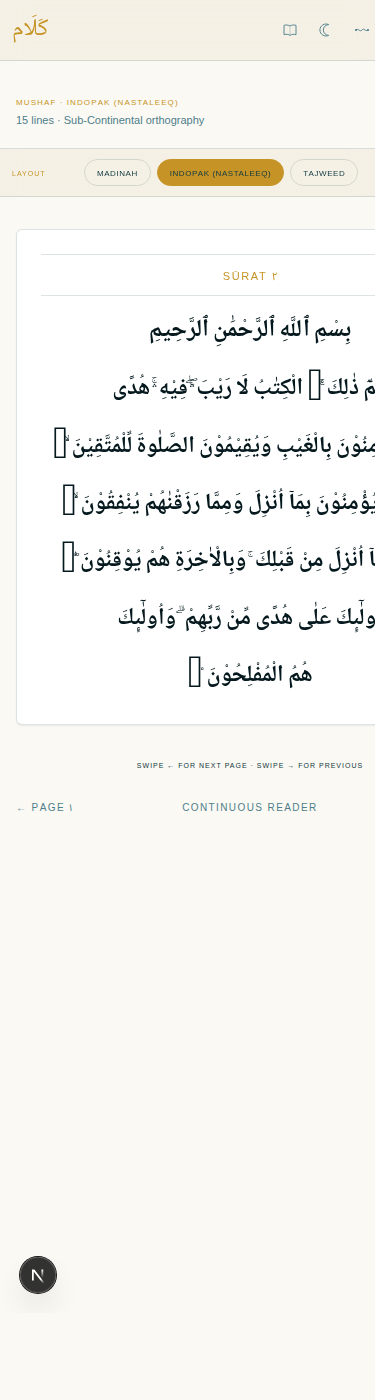
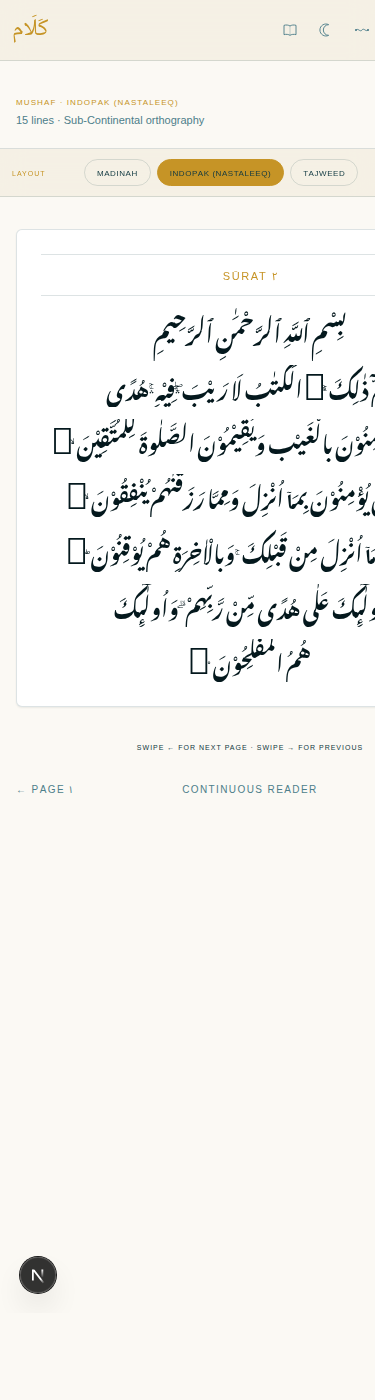
fix(data-loader,web): wordbleed root cause — sort mushaf words by global word_id
Root cause: mushaf-layouts wordsOnLine query was ORDER BY word_index,
which is per-VERSE word index. Lines that span verse boundaries
(common in mushaf — e.g. p2 line 4 has w45-46 from 2:2 + w47-51 from
2:3) had 2:3's index-0 word sort BEFORE 2:2's index-6 word, so the
API returned [47, 48, 49, 50, 51, 45, 46] instead of mushaf order
[45, 46, 47, 48, 49, 50, 51]. The frontend then rendered the words
in that wrong order — visible wordbleed where 2:3's start appeared
on the right (read first in RTL) and 2:2's tail appeared on the left.

Fix: ORDER BY word_id ASC. word_id is 1..N over the entire Quran in
mushaf order, so it's the correct sort key for line content.

Frontend cleanup:
- MushafLines now renders each line as ONE concatenated text run via
  renderLineText(), no per-word inline-block wrapping. The browser's
  standard RTL bidi handles word + digit ordering natively. Verse-end
  rosettes and tajweed segments are still inline elements with
  specific styling but inside the same paragraph.
- Removed unicode-bidi:plaintext (was creating per-span isolates that
  amplified the digit's LTR run effect).
- Verse-end span uses UthmanicHafs explicitly for the rosette glyph
  even when the layout font (Nastaliq) lacks one.
- Switched IndoPak (kfgqpc_v1) layout font from Noto Naskh Arabic to
  Noto Nastaliq Urdu — authentic Sub-Continental Nastaleeq style.

diff --git a/apps/web/src/components/MushafLines.tsx b/apps/web/src/components/MushafLines.tsx
@@ -59,17 +59,7 @@ interface Props {
   readonly minFontPx?: number;
 }
 
-// Verse-end marker detection.
-// • Uthmani: bare Arabic-Indic digit ('٢')
-// • IndoPak Nastaleeq: combining-mark cluster ('۟', '۟ۙ', etc) using
-//   chars from U+06D6–U+06ED (small high marks) without any base
-//   Arabic letter.
-const ARABIC_DIGITS_RE = /^[٠-٩]+$/;
-const INDOPAK_END_RE = /^[ۖ-ۭ]+$/;
-function isAyahEndMarker(text: string): boolean {
-  const t = text.trim();
-  return ARABIC_DIGITS_RE.test(t) || INDOPAK_END_RE.test(t);
-}
+// (verse-end detection moved into renderLineText)
 
 const useIsoLayoutEffect = typeof window === 'undefined' ? useEffect : useLayoutEffect;
 
@@ -94,12 +84,10 @@ const useIsoLayoutEffect = typeof window === 'undefined' ? useEffect : useLayout
 function fontStackFor(layoutSlug: string): string {
   switch (layoutSlug) {
     case 'kfgqpc_v1':
-      // IndoPak Nastaleeq orthography uses different combining marks
-      // (U+0670 alif khanjari, U+06DF small high rounded zero) that
-      // UthmanicHafs's OpenType subst tables interpret as rosette
-      // glyphs — producing spurious inline khatmas. Use a general-
-      // purpose Naskh that doesn't ligate IndoPak diacritics.
-      return '"Noto Naskh Arabic", "Amiri", "Amiri Quran", serif';
+      // IndoPak Nastaleeq → Noto Nastaliq Urdu (the authentic Nastaleeq
+      // calligraphic style used in Sub-Continental mushafs). Falls back
+      // to Scheherazade New / Noto Naskh Arabic if Nastaliq fails.
+      return '"Noto Nastaliq Urdu", "Scheherazade New", "Noto Naskh Arabic", "Amiri", serif';
     case 'kfgqpc_v4':
     case 'madani_15':
     default:
@@ -361,8 +349,19 @@ export function MushafLines({
               dir="rtl"
               lang="ar"
               className="w-full text-center"
-              style={{ unicodeBidi: 'plaintext', overflow: 'hidden' }}
+              style={{ overflow: 'hidden' }}
             >
+              {/* QUL's vetted rendering approach: ONE concatenated
+                  text run per line. Wrapping each word in its own
+                  inline element broke RTL bidi (the digit is class AN,
+                  fragmenting the line into LTR + RTL runs that the
+                  algorithm reordered). With one text node, the
+                  browser's standard bidi handles word + digit ordering
+                  correctly for Arabic. Verse-end digits are derived
+                  from verseKey so IndoPak's combining-mark cluster
+                  doesn't reach the renderer. Tajweed layer is a
+                  separate <span> overlay drawn on top of segments
+                  matching the cpfair/quran-tajweed annotations. */}
               <span
                 ref={(el) => {
                   lineRefs.current[idx] = el;
@@ -375,89 +374,10 @@ export function MushafLines({
                   fontWeight: 600,
                   whiteSpace: 'nowrap',
                   letterSpacing: '0',
+                  direction: 'rtl',
                 }}
               >
-                {line.words.map((w, i) => {
-                  const sep = i < line.words.length - 1 ? ' ' : '';
-                  if (isAyahEndMarker(w.text)) {
-                    // Always render the verse-end marker by deriving
-                    // the digit from `verseKey`. Trusting the source
-                    // word breaks for IndoPak (whose end-marker is the
-                    // tail-cluster '۟ۙ' — a non-printable char in
-                    // Naskh fonts) and ensures every layout shows the
-                    // proper Arabic-Indic verse number. UthmanicHafs's
-                    // OpenType substitution renders the digit as a
-                    // rosette automatically; Noto Naskh shows it
-                    // inline as a numeral.
-                    const ayahNum = w.verseKey.split(':')[1] ?? '';
-                    const arabicDigits = ayahNum
-                      .split('')
-                      .map((d) => '٠١٢٣٤٥٦٧٨٩'[Number(d)] ?? d)
-                      .join('');
-                    // Verse-end marker always rendered with UthmanicHafs
-                    // — its OpenType subst draws an authentic rosette
-                    // around the digit. Other layout fonts (Noto Naskh
-                    // for IndoPak) lack rosette glyphs, so without this
-                    // override the marker shows as a missing-glyph box.
-                    return (
-                      <span key={`${line.lineNumber.toString()}-${w.wordId.toString()}`}>
-                        <a
-                          href={`/study/${w.verseKey.split(':')[0] ?? '1'}/${w.verseKey.split(':')[1] ?? '1'}`}
-                          title={`Ayah ${w.verseKey} — ends here`}
-                          aria-label={`End of ayah ${w.verseKey}`}
-                          className="ayah-end hover:text-leaf"
-                          style={{ fontFamily: '"UthmanicHafs", "Amiri Quran", serif' }}
-                        >
-                          {arabicDigits}
-                        </a>
-                        {sep}
-                      </span>
-                    );
-                  }
-                  // For the tajweed layout, slice the ayah-level
-                  // annotations for this word and render colored spans.
-                  // Annotations come from /v1/tajweed/:verseKey
-                  // (cpfair/quran-tajweed MIT). Word's start offset in
-                  // the ayah text comes from verseWordOffsets.
-                  let wordContent: ReactNode = w.text;
-                  if (layoutSlug === 'kfgqpc_v4') {
-                    const verseAnn = tajweedByVerse.get(w.verseKey) ?? [];
-                    const wordStart =
-                      verseWordOffsets.get(w.verseKey)?.get(w.wordIndex) ?? 0;
-                    const wordEnd = wordStart + w.text.length;
-                    const localAnn: TajweedAnnotation[] = [];
-                    for (const a of verseAnn) {
-                      if (a.end <= wordStart || a.start >= wordEnd) continue;
-                      localAnn.push({
-                        start: Math.max(0, a.start - wordStart),
-                        end: Math.min(w.text.length, a.end - wordStart),
-                        rule: a.rule,
-                      });
-                    }
-                    if (localAnn.length > 0) {
-                      const segs = applyTajweed(w.text, localAnn);
-                      wordContent = segs.map((s, si) =>
-                        s.rule ? (
-                          <span key={si} className={`tajweed-${s.rule}`}>{s.text}</span>
-                        ) : (
-                          <span key={si}>{s.text}</span>
-                        ),
-                      );
-                    }
-                  }
-                  return (
-                    <span key={`${line.lineNumber.toString()}-${w.wordId.toString()}`}>
-                      <a
-                        href={`/study/${w.verseKey.split(':')[0] ?? '1'}/${w.verseKey.split(':')[1] ?? '1'}`}
-                        className="hover:text-leaf"
-                        title={w.verseKey}
-                      >
-                        {wordContent}
-                      </a>
-                      {sep}
-                    </span>
-                  );
-                })}
+                {renderLineText(line, layoutSlug, tajweedByVerse, verseWordOffsets)}
               </span>
             </div>
           );
@@ -469,4 +389,100 @@ export function MushafLines({
 
 function arabicDigitN(n: number): string {
   return n.toString().split('').map((d) => '٠١٢٣٤٥٦٧٨٩'[Number(d)] ?? d).join('');
+}
+
+/**
+ * Render a mushaf line as a single text run with optional tajweed
+ * coloring. Words are joined into ONE string so the browser's bidi
+ * algorithm treats them as a continuous Arabic paragraph (no per-word
+ * inline-block fragmentation that would let digits split the run).
+ *
+ * Verse-end markers are replaced with the verse's Arabic-Indic digit
+ * (derived from verseKey, not the source text — IndoPak's combining-
+ * mark verse-end clusters are non-printable in Naskh fonts).
+ *
+ * For the v4 (Tajweed) layout, each word that overlaps a tajweed
+ * annotation is split into colored <span> segments before the words
+ * are joined.
+ */
+function renderLineText(
+  line: LayoutLine,
+  layoutSlug: string,
+  tajweedByVerse: Map<string, readonly TajweedAnnotation[]>,
+  verseWordOffsets: Map<string, Map<number, number>>,
+): ReactNode {
+  const ARABIC_DIGITS_RE = /^[٠-٩]+$/;
+  const INDOPAK_END_RE = /^[ۖ-ۭ]+$/;
+  function isEnd(t: string): boolean {
+    const x = t.trim();
+    return ARABIC_DIGITS_RE.test(x) || INDOPAK_END_RE.test(x);
+  }
+  function ayahDigit(verseKey: string): string {
+    const a = verseKey.split(':')[1] ?? '';
+    return a.split('').map((d) => '٠١٢٣٤٥٦٧٨٩'[Number(d)] ?? d).join('');
+  }
+
+  const out: ReactNode[] = [];
+  for (let i = 0; i < line.words.length; i += 1) {
+    const w = line.words[i];
+    if (!w) continue;
+    const sep = i < line.words.length - 1 ? ' ' : '';
+    if (isEnd(w.text)) {
+      // Render verse-end as a separate <span> with UthmanicHafs so the
+      // rosette glyph renders even when the layout font (Nastaliq /
+      // Naskh) has no rosette. Wrapped as a clickable anchor for jump-
+      // to-verse on tap.
+      out.push(
+        <a
+          key={`${w.wordId.toString()}-end`}
+          href={`/study/${w.verseKey.split(':')[0] ?? '1'}/${w.verseKey.split(':')[1] ?? '1'}`}
+          title={`Ayah ${w.verseKey} — ends here`}
+          aria-label={`End of ayah ${w.verseKey}`}
+          className="ayah-end hover:text-leaf"
+          style={{ fontFamily: '"UthmanicHafs", "Amiri Quran", serif' }}
+        >
+          {ayahDigit(w.verseKey)}
+        </a>,
+      );
+      if (sep) out.push(' ');
+      continue;
+    }
+
+    if (layoutSlug === 'kfgqpc_v4') {
+      const verseAnn = tajweedByVerse.get(w.verseKey) ?? [];
+      const wordStart = verseWordOffsets.get(w.verseKey)?.get(w.wordIndex) ?? 0;
+      const wordEnd = wordStart + w.text.length;
+      const localAnn: TajweedAnnotation[] = [];
+      for (const a of verseAnn) {
+        if (a.end <= wordStart || a.start >= wordEnd) continue;
+        localAnn.push({
+          start: Math.max(0, a.start - wordStart),
+          end: Math.min(w.text.length, a.end - wordStart),
+          rule: a.rule,
+        });
+      }
+      if (localAnn.length > 0) {
+        const segs = applyTajweed(w.text, localAnn);
+        for (let si = 0; si < segs.length; si += 1) {
+          const s = segs[si];
+          if (!s) continue;
+          if (s.rule) {
+            out.push(
+              <span key={`${w.wordId.toString()}-s${si.toString()}`} className={`tajweed-${s.rule}`}>{s.text}</span>,
+            );
+          } else {
+            out.push(s.text);
+          }
+        }
+        if (sep) out.push(' ');
+        continue;
+      }
+    }
+
+    // Plain word — emitted as a raw string so it joins the bidi run
+    // with adjacent words (no per-word inline-block).
+    out.push(w.text);
+    if (sep) out.push(' ');
+  }
+  return <>{out}</>;
 }

diff --git a/packages/data-loader/src/qul/mushaf-layouts.ts b/packages/data-loader/src/qul/mushaf-layouts.ts
@@ -120,10 +120,15 @@ export function buildMushafLayoutsReader(db: DB, meta: LicenseMetadata): MushafL
        ORDER BY line_number ASC`,
     ),
     wordsOnLine: db.prepare<[string, number, number], RawWord>(
+      // Order by word_id (global mushaf-order, 1..N over the whole
+      // Quran) — NOT by word_index. word_index is per-verse, so a line
+      // that spans two verses (e.g. last word of 2:2 + first words of
+      // 2:3) would sort 2:3's index-0 word before 2:2's index-6 word,
+      // causing visual word reordering and apparent verse mixing.
       `SELECT word_id, word_index, verse_key, text
        FROM qalaam_v1_qul_layouts_words
        WHERE layout = ? AND page_number = ? AND line_number = ?
-       ORDER BY word_index ASC`,
+       ORDER BY word_id ASC`,
     ),
     pageForVerse: db.prepare<[string, string], { page_number: number; line_number: number }>(
       `SELECT page_number, line_number

diff --git a/apps/web/src/styles/globals.css b/apps/web/src/styles/globals.css
@@ -17,7 +17,7 @@
 @import 'tailwindcss';
 @import './tokens.css';
 
-@import url('https://fonts.googleapis.com/css2?family=Fraunces:opsz,wght,SOFT,WONK@9..144,300..900,0..100,0..1&family=IBM+Plex+Sans:wght@300;400;500;600;700&family=Amiri:wght@400;700&family=Amiri+Quran&family=Noto+Naskh+Arabic:wght@400;500;600;700&display=swap');
+@import url('https://fonts.googleapis.com/css2?family=Fraunces:opsz,wght,SOFT,WONK@9..144,300..900,0..100,0..1&family=IBM+Plex+Sans:wght@300;400;500;600;700&family=Amiri:wght@400;700&family=Amiri+Quran&family=Noto+Naskh+Arabic:wght@400;500;600;700&family=Noto+Nastaliq+Urdu:wght@400;500;600;700&family=Scheherazade+New:wght@400;500;700&display=swap');
 
 /* UthmanicHafs — official KFGQPC Hafs Uthmanic Script Unicode font from
  * Quran Foundation. Self-hosted at /fonts/quran/UthmanicHafs1Ver18.woff2